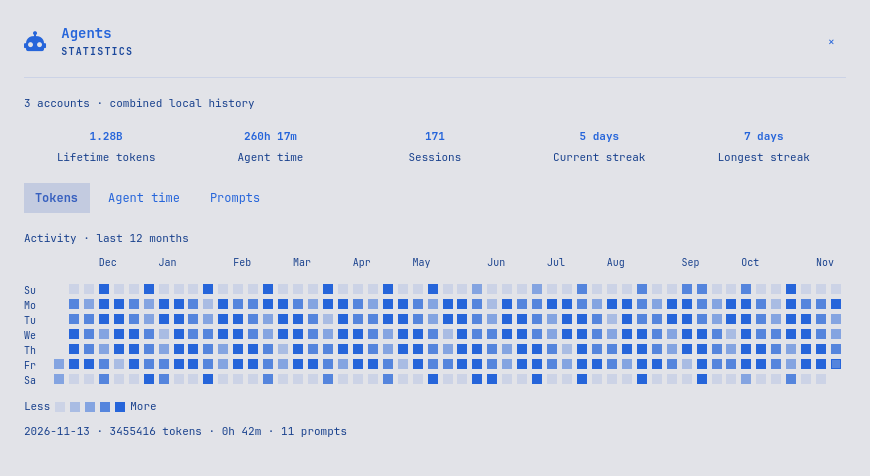
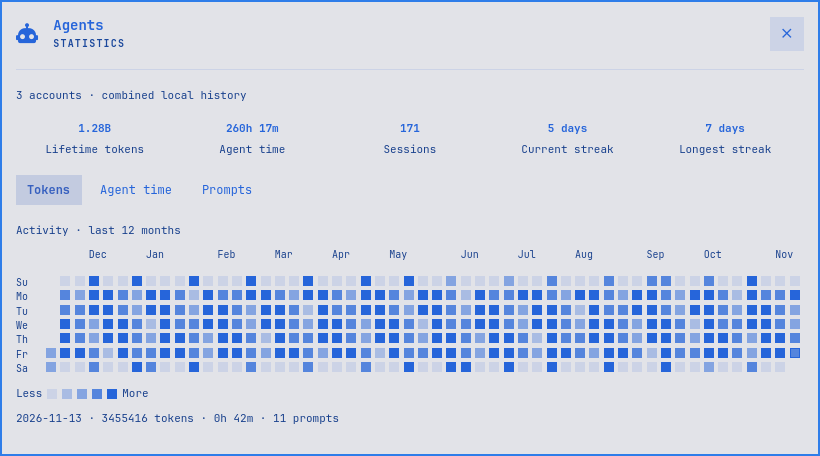
Fix preview to match the native statistics panel

diff --git a/AgentsPanel.qml b/AgentsPanel.qml
@@ -1569,6 +1569,8 @@ Panel {
           active: root.opened && root.statisticsOpen
           returnControl: Component {
             HeroButton {
+              fontFamily: root.fontFamily
+              onHasCursorChanged: if (hasCursor) root.revealItem(this)
               hasCursor: statisticsView.selectedCell < 0 && statisticsView.selectedAction === 0
               glyph: ""
               tooltip: statisticsStrings.t("closeStatistics")
@@ -1639,6 +1641,8 @@ Panel {
                 visible: root.addButtonShown
 
                 HeroButton {
+                  fontFamily: root.fontFamily
+                  onHasCursorChanged: if (hasCursor) root.revealItem(this)
                   visible: root.addButtonShown
                   hasCursor: root.hasKey("add")
                   onHovered: root.pointAt("add")
@@ -2762,47 +2766,6 @@ Panel {
       text: root.starterLocalModel && !root.shiftHeld
         ? Commons.I18n.t("agents.startLocalOnNew").arg(tile.title.toLowerCase()).arg(root.starterLocalModel.name || root.starterLocalModel.recipe)
         : Commons.I18n.t("agents.startOnNew").arg(tile.title.toLowerCase())
-    }
-  }
-
-  // The tinted square in the hero's corner: start an agent, add a subscription.
-  component HeroButton: Rectangle {
-    id: heroButton
-    signal clicked()
-    signal hovered()
-    property string glyph: ""
-    property string tooltip: ""
-    property bool hasCursor: false
-    implicitWidth: Style.space(34)
-    implicitHeight: implicitWidth
-    radius: Style.cornerRadius
-    // The cursor needs more than a shade deeper to read on a tinted square.
-    color: root.alpha(Commons.Color.accent, hasCursor ? 0.3 : 0.12)
-    border.width: hasCursor ? Math.max(1, Style.hoverBorderWidth) : 0
-    border.color: Commons.Color.accent
-    onHasCursorChanged: if (hasCursor) root.revealItem(heroButton)
-
-    Text {
-      anchors.centerIn: parent
-      textFormat: Text.PlainText
-      text: heroButton.glyph
-      color: Commons.Color.accent
-      font.family: root.fontFamily
-      font.pixelSize: Style.font.heading
-    }
-
-    MouseArea {
-      id: heroMouse
-      anchors.fill: parent
-      hoverEnabled: true
-      cursorShape: Qt.PointingHandCursor
-      onEntered: heroButton.hovered()
-      onClicked: heroButton.clicked()
-    }
-
-    PanelToolTip {
-      visible: heroMouse.containsMouse
-      text: heroButton.tooltip
     }
   }
 

diff --git a/tests/UiHarness.qml b/tests/UiHarness.qml
@@ -8,23 +8,32 @@ import "Plugin" as Plugin
 Window {
     id: window
     visible: true
-    width: 870
-    height: Math.ceil(view.implicitHeight + 48)
+    width: Commons.Style.space(820)
+    height: Math.ceil(view.implicitHeight + card.contentTopInset + card.contentBottomInset)
     color: Commons.Color.background
     property bool returned: false
     readonly property string maliciousText: '<img src="https://example.invalid/tracker"><b>markup</b>'
     readonly property string outputDirectory: Quickshell.env("OMARCHY_STATS_TEST_OUTPUT")
-    Rectangle { anchors.fill: parent; color: Commons.Color.background; z: -1 }
+    Ui.BorderSurface {
+        id: card
+        anchors.fill: parent
+        color: Commons.Color.popups.background
+        borderSpec: Commons.Border.surfaceSpec("popups", "border", Commons.Color.popups.border, Math.max(1, Commons.Style.space(2)))
+        padding: Commons.Style.spacing.popupPadding
+        radius: Commons.Style.cornerRadius
 
-    Plugin.StatisticsView {
-        id: view
-        x: 24; y: 24; width: parent.width - 48
-        today: new Date(2026, 10, 13, 12)
-        cacheDirectory: decodeURIComponent(Qt.resolvedUrl("cache").toString().replace(/^file:\/\//, ""))
-        returnControl: Component {
-            Ui.Button { text: "×"; onClicked: view.back() }
+        Plugin.StatisticsView {
+            id: view
+            x: card.contentLeftInset
+            y: card.contentTopInset
+            width: card.width - card.contentLeftInset - card.contentRightInset
+            today: new Date(2026, 10, 13, 12)
+            cacheDirectory: decodeURIComponent(Qt.resolvedUrl("cache").toString().replace(/^file:\/\//, ""))
+            returnControl: Component {
+                Plugin.HeroButton { glyph: ""; onClicked: view.back() }
+            }
+            onBack: window.returned = true
         }
-        onBack: window.returned = true
     }
     Ui.PanelToolTip { id: tooltip; text: window.maliciousText }
     Ui.PanelHero { id: heroProbe; visible: false; title: window.maliciousText; meta: window.maliciousText }
@@ -50,6 +59,7 @@ Window {
         Commons.Color.foreground = foreground
         Commons.Color.background = background
         Commons.Color.popups.background = background
+        Commons.Color.popups.border = accent
         Commons.Color.accent = accent
     }
     Timer {

diff --git a/HeroButton.qml b/HeroButton.qml
@@ -1,0 +1,44 @@
+import QtQuick
+import qs.Commons
+import qs.Commons as Commons
+import qs.Ui as Ui
+
+// The native Agents hero control, shared with the preview renderer.
+Rectangle {
+  id: root
+  signal clicked()
+  signal hovered()
+  property string glyph: ""
+  property string tooltip: ""
+  property bool hasCursor: false
+  property string fontFamily: Style.font.family
+  implicitWidth: Style.space(34)
+  implicitHeight: implicitWidth
+  radius: Style.cornerRadius
+  color: Qt.rgba(Commons.Color.accent.r, Commons.Color.accent.g, Commons.Color.accent.b, hasCursor ? 0.3 : 0.12)
+  border.width: hasCursor ? Math.max(1, Style.hoverBorderWidth) : 0
+  border.color: Commons.Color.accent
+
+  Text {
+    anchors.centerIn: parent
+    textFormat: Text.PlainText
+    text: root.glyph
+    color: Commons.Color.accent
+    font.family: root.fontFamily
+    font.pixelSize: Style.font.heading
+  }
+
+  MouseArea {
+    id: mouse
+    anchors.fill: parent
+    hoverEnabled: true
+    cursorShape: Qt.PointingHandCursor
+    onEntered: root.hovered()
+    onClicked: root.clicked()
+  }
+
+  Ui.PanelToolTip {
+    visible: mouse.containsMouse
+    text: root.tooltip
+  }
+}

diff --git a/UPSTREAM.md b/UPSTREAM.md
@@ -12,6 +12,8 @@ Upstream source: [basecamp/omarchy](https://github.com/basecamp/omarchy).
 
 - `AgentsPanel.qml`: the built-in Agents panel, with a Statistics entry,
   view switching, and state reset when the panel closes.
+- `HeroButton.qml`: the built-in Agents hero button, extracted for reuse
+  by the panel and preview renderer.
 - `Main.qml` and `Agent.qml`: the built-in usage-record display and watchers.
 - `vendor/Reorder.js`: only the row-reordering functions used by Agents,
   extracted from the built-in Elsewhen model.

diff --git a/CONTRIBUTING.md b/CONTRIBUTING.md
@@ -44,7 +44,8 @@ bar settings, restoration of the built-in Agents widget, and panel reopening.
 
 ## Preview
 
-The UI test renders light and dark previews from synthetic activity:
+The UI test renders light and dark previews from synthetic activity, using
+the panel's shared hero button, width, padding, and Omarchy border surface:
 
 ```sh
 PYTHONDONTWRITEBYTECODE=1 python3 -m unittest discover -s tests -p test_ui.py -v
